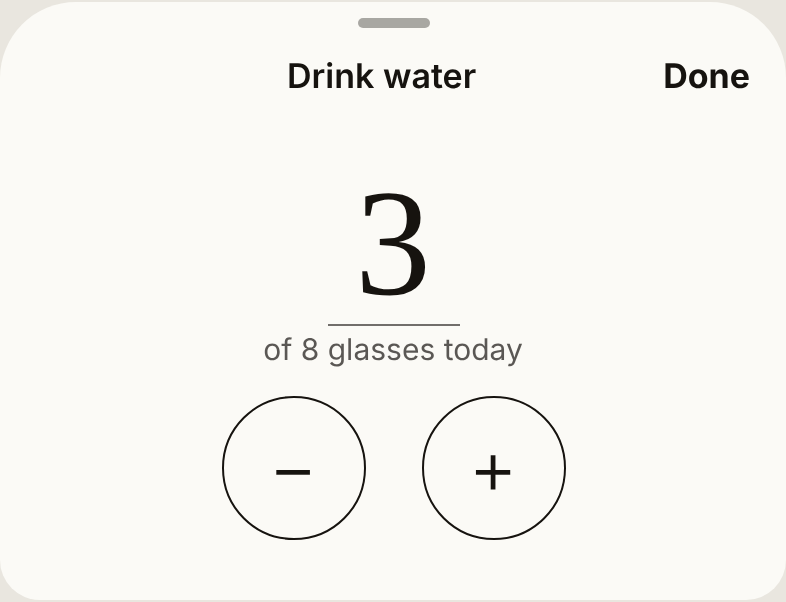
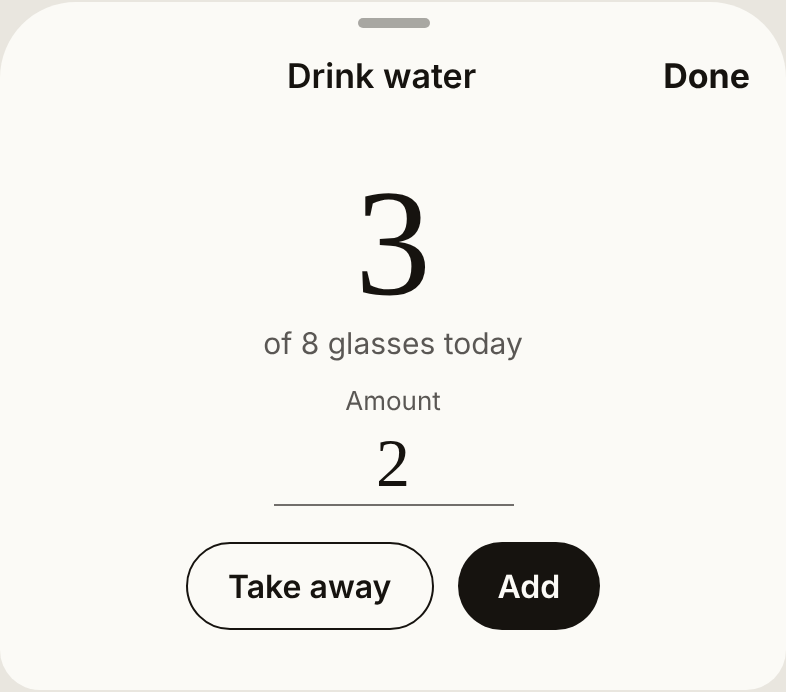
Record owner decisions: typed numbers, red as a user accent, milestone order, review cadence
- New habit and the count sheet take typed numbers. The count sheet adds or takes away a typed amount.
- The custom colour ring offers every hue. The app's own colours still never use red.
- An entitlements file is allowed for the App Group only.
- Milestones: Pen and ink first, export and import in milestone 2, Pencil and Watercolor in milestone 4.
- Three lenses per milestone, all sixteen at stops. Added UI and UX, human factors and senior designer.
- CLAUDE.md gains the accessibility and architecture rules. The spec gains the scene rules and a usage data proposal.

Claude-Session: https://claude.ai/code/session_012NdevCAvT4U8qS7nMJ64YM

diff --git a/docs/mockups.html b/docs/mockups.html
@@ -200,6 +200,11 @@ figcaption{font:400 12px/1.4 var(--ui);color:#5a554d;margin-top:8px}
 .note.hint{font-size:13px;margin-top:8px;color:var(--text3)}
 .fieldnum{border-bottom:1.5px solid var(--text3);padding:0 14px 2px}
 .wrow small{display:block;font:400 12px/1.3 var(--ui);color:var(--text2)}
+.typed{font-size:20px;min-width:64px;text-align:right;border-bottom:1.5px solid var(--text3);padding:2px 4px}
+.amt{display:grid;justify-items:center;gap:6px;margin:4px 0 18px;font:400 13px/1 var(--ui);color:var(--text2)}
+.typed.big{font-size:34px;text-align:center;min-width:120px;color:var(--text)}
+.two{display:flex;justify-content:center;gap:12px}
+.sysbtn.ghost{background:transparent;color:var(--text);border:1.5px solid var(--text)}
 </style>
 </head>
 <body>
@@ -473,15 +478,17 @@ function add(style, app){
   <div class="sec">Name</div><div class="field nm">Drink water</div>
   <div class="sec">Symbol</div><div class="symrow">${syms}</div>
   <div class="sec">Kind</div><div class="seg" style="margin-top:0"><span>Yes or no</span><span class="on">Count</span></div>
-  <div class="frow"><span>Target each day</span><span class="stepper"><b class="num">8</b><i>&minus;</i><i>+</i></span></div>
+  <div class="frow"><span>Target each day</span><b class="num typed" role="textbox">8</b></div>
   <div class="frow"><span>Unit</span><span class="val">glasses</span></div>
-  <div class="frow"><span>One tap adds</span><span class="stepper"><b class="num">1</b><i>&minus;</i><i>+</i></span></div>
+  <div class="frow"><span>One tap adds</span><b class="num typed" role="textbox">1</b></div>
   <div class="sec">Days</div><div class="dayrow">${days}</div>`;
 }
 function count(style, app){
+  // The user types an amount and adds it or takes it away. No arrows are needed to reach a number.
   return `<div class="grab"></div><div class="nav sheetnav"><span class="btn"></span><b>Drink water</b><span class="btn"><b>Done</b></span></div>
-  <div class="bigcount"><b class="num fieldnum" role="textbox" aria-label="Glasses today">3</b><span>of 8 glasses today</span></div>
-  <div class="pm"><span aria-label="Decrease by 1">&minus;</span><span aria-label="Increase by 1">+</span></div>`;
+  <div class="bigcount"><b class="num">3</b><span>of 8 glasses today</span></div>
+  <div class="amt"><span>Amount</span><b class="num typed big" role="textbox" aria-label="Amount">2</b></div>
+  <div class="two"><span class="sysbtn ghost">Take away</span>${sysbtn("Add")}</div>`;
 }
 function ax5(style, app){
   return status()+`<div class="nav"><span></span><span class="btn" aria-label="Add habit">${plus}</span></div>

diff --git a/docs/spec.md b/docs/spec.md
@@ -58,7 +58,11 @@ Any time before the day-start hour shows Night. With day start at 06:00, Sunrise
 - One of eight swatches.
 - Custom colour.
 
-**Custom colour. Guess, and a disagreement with a plain colour picker.** The system colour picker lets the user pick red, white or black. Red breaks invariant 1. White and black break the 3:1 rule for marks. The custom control is a hue ring with the red arc left out. The user picks the hue. The app sets lightness and chroma for each appearance so the mark always measures 3:1 or more.
+**Custom colour. Owner.** The custom control is a hue ring. Every hue is on it, red included. Some cultures read red as lucky, so the choice is the user's. The user picks the hue. The app sets lightness and chroma for each appearance so the mark always measures 3:1 or more. This is why the control is not the system colour picker, which also offers white and black.
+
+The app's own palettes and swatches still never use red. The red test covers what the app ships, not what the user picks.
+
+**What 3:1 means.** It is a contrast ratio between a mark and the paper behind it. WCAG 2.2 sets 3:1 as the least a shape needs when it carries information, so that people with low vision can see it. Pale yellow on white paper is about 1.2:1.
 
 The palette also has a manual override: the user can pin one of the five palettes.
 
@@ -115,13 +119,13 @@ One drawing has one meaning.
 
 **Today rows.** A row shows a second line only when it says something about today: the count for a counted habit, or "Extra credit". Habits that are off schedule today are not listed (**Guess**).
 
-**Logging. Guess.** A tap on a yes-or-no habit logs it. A second tap takes the log back. A tap on a counted habit adds the habit's tap amount, which defaults to 1. The count line under a counted habit's name ("3 of 8 glasses") is a button that opens the count sheet: minus, plus, and a number field. Touch and hold on the control opens the same sheet. VoiceOver gets adjustable actions named "Increase" and "Decrease" with the step as the value.
+**Logging. Guess.** A tap on a yes-or-no habit logs it. A second tap takes the log back. A tap on a counted habit adds the habit's tap amount, which defaults to 1. The count line under a counted habit's name ("3 of 8 glasses") is a button that opens the count sheet. In the sheet the user types an amount and chooses Add or Take away. Touch and hold on the control opens the same sheet. **Owner:** every number in the app can be typed, including the target and the tap amount in New habit. Arrows are never the only way to reach a number such as 15,000 steps or 25 minutes. VoiceOver gets adjustable actions named "Increase" and "Decrease" with the step as the value.
 
 **Past days. Guess.** In the month view of Habit detail, a tap on a past day logs or edits that day through the same intent. A yes-or-no habit toggles. A counted habit opens the count sheet for that day. One line under the grid says "Tap a past day to change it." Future days cannot be logged.
 
 **Gentle Mode.** The switch is in You. While it is on, Today shows one line that says so, with a "Turn off" button.
 
-**Proposed change to the brief, waiting for the owner.** The brief says `LogEvent.delta` is +1 or -1. A habit with a target of 6,000 steps would need thousands of events. The proposal is that `delta` is any whole number, positive or negative. Sums still commute across devices. `Habit` gains `tapAmount`, default 1. The schema is additive forever, so this is decided before milestone 1.
+**Counts. Owner.** `LogEvent.delta` is any whole number, positive or negative. `Habit` has `tapAmount`, default 1. Sums still commute across devices.
 
 **Page width. Guess.** On iPad and Mac the content is one page, 393 points wide, centred in the window. The scene card stays 350 by 118 points. Tabs become the system sidebar. A mark is never more than a page width from its habit name.
 
@@ -137,7 +141,7 @@ One drawing has one meaning.
 
 **First run.** Today shows the scene card, one line of text and one button, "Add a habit".
 
-**Shared store. To check in milestone 1.** Widgets, App Intents and the Watch app need the SwiftData store in an App Group container. The owner has a free Apple account. Milestone 1 checks that an App Group works with free signing, because milestone 5 depends on it.
+**Shared store.** Widgets, App Intents and the Watch app need the SwiftData store in an App Group container. An `.entitlements` file is allowed for the App Group only (**Owner**). The owner has a free Apple account. Before milestone 1, a throwaway project checks that an App Group works with free signing.
 
 ## Product, from the brief
 
@@ -162,7 +166,7 @@ All **Guess** unless marked. These came from the engineering and QA reviews. The
 - Every model property is optional or has a default, relationships are optional, and nothing is marked unique. CloudKit needs this later.
 - `LogEvent` has a stable id. Import skips an event whose id is already in the store.
 - A yes-or-no habit is done when the day's total is 1 or more. Taking a log back writes minus the current total. A total below 0 is shown as 0.
-- A typed count writes the difference between the typed number and the total the device sees.
+- A typed amount is written as the delta itself, positive for Add and negative for Take away. No event stores a total.
 - A log on a paused day is extra credit, whatever the count. A log on an off-schedule day is extra credit too.
 - Turning Gentle Mode off sets the end day to today, so today stays paused.
 - Pauses may start in the past. Overlapping pauses are treated as one.
@@ -208,20 +212,56 @@ All **Guess** unless marked. These came from the engineering and QA reviews. The
 - The app icon needs default, dark, clear and tinted variants.
 - A free Apple account's builds stop launching after 7 days and must be rebuilt from the Mac. Export and import are the way back if the bundle or team changes.
 
+## Milestones
+
+**Owner**, 14 November 2026.
+
+| # | Milestone | Holds |
+|---|---|---|
+| 1 | Core loop in Pen and ink | Models and data rules, Today, New habit, yes-or-no and counted logging with typed numbers, `LogHabitIntent`, the style layer as data with Pen and ink only, the Lake card in five palettes, Follow the palette and the eight swatches, light or dark, privacy manifest |
+| 2 | History, export and import | Heat map (week, month, year), logging a past day, JSON export and import with a round-trip test |
+| 3 | Pausing | `Pause` records, Vacation Mode, Gentle Mode, extra-credit run maths |
+| | Stop and report | |
+| 4 | Pencil and Watercolor | Both styles, their fonts, the style picker, the custom colour ring |
+| 5 | Sync | Skipped until the owner says |
+| 6 | Ambient | Widgets, App Intents surfaces, Watch app and complication |
+| 7 | Nudges | Scheduling engine, wording tones, settings |
+| 8 | Ordering | Focus, manual, by time, then learned |
+| 9 | NFC | Tag writing and the Shortcuts walkthrough |
+| 10 | Obsidian | Append to our own file, then the daily-note option |
+| 11 | Removal | Archive, restore, Recently Deleted, purge |
+| 12 | Polish | Accessibility audit, Dynamic Type sweep |
+
+## Usage data
+
+**Proposed, waiting for the owner.** The brief says no analytics, no telemetry and no server. Nothing here sends data anywhere.
+
+- **From the user's own log, on the device.** `LogEvent` already stores source, timestamp and delta. From those alone the app can show: which inputs are used (tap, widget, Watch, tag, Siri), how often a log is taken back within a minute, what time of day each habit is logged against its nudge hour, and how often the count sheet is needed. A page in You shows these to the user. They are also in the JSON export. No new event is recorded.
+- **From Apple, later.** After the owner joins the Developer Program and ships through the App Store or TestFlight, App Store Connect reports crashes, hangs, launch time and energy for users who opted in at the system level. It needs no code and no SDK.
+- **Not proposed.** A third-party analytics SDK or a server. Either one breaks three locked decisions and the "Data not collected" privacy label.
+
 ## Open decisions
 
 Each needs the owner. The recommendation is mine.
 
 | # | Decision | Recommendation | Blocks |
 |---|---|---|---|
-| 1 | `LogEvent.delta` may be any whole number, and `Habit` gains `tapAmount` | Yes | Milestone 1 |
-| 2 | The brief forbids an `.entitlements` file. A shared store for widgets and the Watch needs one for the App Group | Allow one that holds the App Group only. Test it with free signing before milestone 1 | Milestone 1 |
-| 3 | Milestone 1 builds three styles, two downloaded fonts and five palettes before a habit can be logged | Milestone 1 builds the style layer and Pen and ink. Pencil and Watercolor get their own milestone after milestone 3 | Milestone 1 |
-| 4 | Export and import are in milestone 10. The phone holds the only copy of the data | Move both to milestone 2 | Milestone 2 |
-| 5 | Eight lenses after every milestone and thirteen at each stop is about 120 review runs. Eight at once hit the usage limit twice | After each milestone run engineer, QA and tired daily user, plus accessibility when the UI changes and security when a permission, file or dependency is added. Run all thirteen at the three stops, three at a time | Milestone 1 report |
-| 6 | The data rules above | Accept as written | Milestone 1 |
-| 7 | Display fonts for Pencil and Watercolor | Shantell Sans and Alegreya Sans | The Pencil and Watercolor milestone |
-| 8 | The items marked Guess in this file | Accept as written | The milestone that first uses each |
+| 1 | The data rules above | Accept as written | Milestone 1 |
+| 2 | The usage data page | Build it in milestone 12 from the existing log fields | Milestone 12 |
+| 3 | Display fonts for Pencil and Watercolor | Shantell Sans and Alegreya Sans | Milestone 4 |
+| 4 | The items marked Guess in this file | Accept as written | The milestone that first uses each |
+
+Decided on 14 November 2026 and now written into this file and `CLAUDE.md`: whole-number deltas and typed numbers, the `.entitlements` file for the App Group, the milestone order, export in milestone 2, three review lenses per milestone, red allowed as a user's accent, and three more lenses (UI and UX, human factors, senior designer).
+
+## Scenes, from the brief
+
+**Rules.** The card is 350 by 118 points, short and wide, with one soft horizon. Value runs from bare paper through light and mid washes to dark pigment. A scene with one flat opacity fails. It must read in all five palettes, at half and one-third size, and in greyscale, protanopia, deuteranopia and tritanopia. The palette changes colour only, never composition. Scenes: Lake, Redwoods, Desert, Coast, Mountains. Each is shown to the owner as three variants, one scene at a time. A scene rejected twice is dropped.
+
+**What failed before, for the Redwoods.** Straight tapered trunks in a row read as a barcode. A corridor of trunks with drooping boughs was eerie. Foliage as round dabs read as camouflage. Sticks for trunks with loose needle lines over blobs read as sickly pines with needles attached to nothing. A mix of all of these was a pastiche. Wanted: tall trunks, a canopy, a pine-needle feel, calm, not muddy, not eerie.
+
+**What worked.** A lake in washes: ragged edges, a wet rim where a wash pools, granulation, glazing with multiply, bare paper kept as highlights, graded gradients, tapered ripples, paper-coloured mist between layers.
+
+**Styles.** Pencil is a coloured-pencil feel: visible hatching, varying line weight, paper tooth, playful and slightly whimsical. Watercolor is transparent washes with no outline: paint is the shape, layers are transparent, water density varies inside a wash, edges bleed and pool at the rim, bare paper is the highlight. Calm never means slower or sparser. Logging stays one obvious tap. The three styles must not look alike.
 
 ## Fonts proposed
 
@@ -241,7 +281,7 @@ Whether Optima and Chalkboard SE resolve on watchOS is not checked. It is a phas
 - The Pen and ink tokens for Ink give 16.15:1 for body and 5.04:1 for tertiary by the WCAG formula. The floor in the brief is 16.2:1 and 5.1:1. The Ink text was changed from `#F2EEE5` to `#F3EFE6` and tertiary from 52% to 53% so the floor holds. The other choice is to keep the tokens and lower the floor.
 - `gh repo create` is not available in the session that ran phase 1. The owner created the repo by hand.
 - The brief's year view (opacity steps) and its default drawing of a missed day conflicted with invariants 2 and 1. The owner resolved both. See Marks.
-- `CLAUDE.md` did not hold the brief's product section or its definition of done. The product section is now in this file and the definition of done is in `CLAUDE.md`. The brief's design, accessibility and architecture sections are still only in the brief. A phase 2 session needs the brief pasted again.
+- "The brief" is the owner's first prompt, `habit-build-prompt.md`. It is not in the repo. Its rules now live in `CLAUDE.md` and this file, with the owner's later changes applied. Where they differ from the brief, the repo is right.
 - The brief's Pen and ink Paper tokens give 6.76:1 for secondary and 4.77:1 for tertiary, under the 6.8:1 and 4.8:1 floor when compared unrounded. Secondary went from 70% to 70.5% and tertiary from 60% to 60.5%.
 
 ## Decisions log

diff --git a/CLAUDE.md b/CLAUDE.md
@@ -18,7 +18,7 @@ This file is the project brief for every session. `docs/spec.md` records decisio
 
 These outrank every other instruction. Violating one is a bug, however good the reason sounds. If an instruction would break one, stop and tell the owner.
 
-1. **No guilt mechanics.** No streak-loss alarms, no red anywhere, no "you're falling behind", no mention of a missed day unless the user opted in. Missing a day produces silence.
+1. **No guilt mechanics.** No streak-loss alarms, no red chosen by the app, no "you're falling behind", no mention of a missed day unless the user opted in. Missing a day produces silence. The user may pick red as their own accent. The owner decided this on 14 November 2026.
 2. **Colour carries no meaning.** Heat-map intensity is hatching density, never hue. The user's accent tints marks only, never text, never rules. Text contrast is a fixed constant the user cannot break.
 3. **Pausing only ever helps.** A paused day with no log never breaks a run and never extends it. A paused day with a log is extra credit and extends it. The streak function has unit tests that assert exactly this.
 4. **Every input is optional.** NFC, widgets and the Watch are shortcuts, not dependencies. Losing a tag breaks nothing.
@@ -44,7 +44,8 @@ These outrank every other instruction. Violating one is a bug, however good the 
 | Scene art | Pre-rendered raster assets. One greyscale value layer per scene, tinted at runtime by palette, within the size budget in `docs/spec.md` |
 | Structure | One shared Swift package `HabitKit` (models, day and pause maths, ordering, nudge scheduling, formatting) used by the app, watch, widget and intents targets |
 | Schema | Additive only, forever. Never rename or retype a field. New fields are optional or defaulted, and the default lives on the stored property itself. A new schema version is needed only when the set of `@Model` types changes |
-| CloudKit | The owner has not bought the Apple Developer Program. No CloudKit entitlement, container or `.entitlements` file. The Sync milestone is skipped until the owner says |
+| CloudKit | The owner has not bought the Apple Developer Program. No CloudKit entitlement or container. An `.entitlements` file is allowed for the App Group only. The owner corrected this on 14 November 2026. The Sync milestone is skipped until the owner says |
+| Counts | `LogEvent.delta` is any whole number. A habit has a tap amount, default 1. Every number the user sets can be typed. Arrows are never the only way to reach a number |
 
 ## Design rules that do not change
 
@@ -53,7 +54,7 @@ These outrank every other instruction. Violating one is a bug, however good the 
 - Mark states: solid (done), hatched (part done), centred dash (paused), diamond (extra credit), blank (off schedule, or nothing logged), dashed outline at reduced opacity (to come). Today is an outline overlaid on the day's state.
 - A past day with no log draws nothing. The empty outline for such a day, and the current run, appear only when the user turns on "Show days not logged". The owner decided this on 14 November 2026.
 - The year view carries state by small shapes, never by opacity. The owner decided this on 14 November 2026.
-- The user's accent choice comes first. Following the palette is the default option, not a rule. A custom colour is picked by hue, never red, and the app sets its lightness so marks keep 3:1.
+- The user's accent choice comes first. Following the palette is the default option, not a rule. A custom colour is picked by hue. Any hue is allowed, red included. The app sets its lightness so marks keep 3:1. The app's own tokens, swatches and palettes never use red.
 - Scene card is 350 by 118 points. No text sits on it.
 - Views read the style from the environment. A view that computes a colour or names a font is a bug. Tokens live in the style files only.
 - Accessibility is v1: Dynamic Type to AX5, VoiceOver, Increase Contrast, Reduce Transparency, 44 by 44 targets.
@@ -68,7 +69,7 @@ These outrank every other instruction. Violating one is a bug, however good the 
 
 **Phases.**
 - Phase 1 is design. It ends with a stop. No Swift is written in phase 1.
-- Phase 2 milestones, in order: 1 Core loop and styles. 2 History. 3 Pausing. Stop and report. 4 Sync (skipped until the owner says). 5 Ambient. 6 Nudges. 7 Ordering. 8 NFC. 9 Obsidian. 10 Removal. 11 Polish.
+- Phase 2 milestones, in order, as the owner changed them on 14 November 2026: 1 Core loop in Pen and ink. 2 History, export and import. 3 Pausing. Stop and report. 4 Pencil and Watercolor. 5 Sync (skipped until the owner says). 6 Ambient. 7 Nudges. 8 Ordering. 9 NFC. 10 Obsidian. 11 Removal. 12 Polish. What each holds is in `docs/spec.md`.
 - After each milestone, run the reviews on the diff as separate subagents (see Review lenses), fix what is valid, and send a report.
 - No scene is built that the owner has not approved.
 
@@ -107,7 +108,7 @@ These outrank every other instruction. Violating one is a bug, however good the 
 
 **Review lenses.** Each lens runs as a separate subagent that has not seen the working. It gets its brief, this file and the thing under review. It returns at most five findings, ranked, each with a file and line or a screen, and a concrete failure scenario. Valid findings are fixed. The rest are listed with the reason.
 
-The first eight run after every milestone. The last five were added on 14 November 2026 to cover the roles an app team has. They run at each stop: the end of phase 1, after milestone 3, and at the end. Run lenses two or three at a time, not all at once.
+After each milestone three lenses run: senior software engineer, QA engineer and tired daily user. Accessibility is added when the diff changes the UI. Security and privacy is added when the diff adds a permission, a file or a dependency. All sixteen run at each stop: the end of phase 1, after milestone 3, and at the end. Run lenses two or three at a time, not all at once. The owner set this on 14 November 2026.
 
 | Lens | Team role | Brief |
 |---|---|---|
@@ -123,9 +124,28 @@ The first eight run after every milestone. The last five were added on 14 Novemb
 | First-day user | User research, onboarding | Someone who has never seen the app. Empty states, the first habit, whether each mark can be understood without a key, whether every gesture has a visible alternative, where they would get stuck |
 | Content designer | UX writer, localisation | Every string: plain, short, free of guilt and grading. Plurals, dates and numbers by locale, week start, text 40% longer in translation, right-to-left layout, VoiceOver wording |
 | QA engineer | Test engineer | Day start, midnight, daylight saving, time-zone travel, counted habits and undo, logging a past day, pause edges, export and import, the smallest and largest devices, what the tests do not cover |
+| UI and UX designer | Interaction designer | Task flows from start to finish, every state of every screen (empty, partial, full, error), navigation, feedback after each action, recovery from a mistake, consistency of controls across screens |
+| Human factors | Human interface and human factors | Glance time, reach and thumb zones, target size and spacing, slips and mistaken taps, memory load, mode errors, how many decisions a task takes, use while tired, walking or one-handed |
+| Senior designer | Design lead | Whether the product holds together as one thing: hierarchy, rhythm, restraint, what to remove, whether the three styles are distinct and each complete, whether every screen earns its place |
 | Release engineer | Build and release | What works with a free Apple account, App Groups and the shared store, signing, privacy manifest and required-reason APIs, when the notification prompt appears, widget tint modes, app icon variants, App Review rules |
 
 Roles a typical app team has that this project leaves out, with the reason: backend and DevOps (there is no server), data analyst (there is no analytics), growth and marketing (the app is free and has no accounts), monetisation (there is no paywall).
+
+**Accessibility.** This is v1, not polish.
+- Dynamic Type to AX5 on every screen. Layouts reflow, nothing clips.
+- Custom fonts scale with the text style. A fixed-size custom font is a bug. Bold Text uses a heavier weight.
+- VoiceOver on the heat map groups by week with a summary and an `AXChartDescriptor`. Never 365 focusable cells.
+- Increase Contrast maps to heavier ink. In Watercolor it also turns washes and grain off. Reduce Transparency removes grain.
+- 44 by 44 minimum targets. Full Keyboard Access and complete menu-bar commands on Mac.
+- Differentiate Without Colour needs no special handling and must stay that way.
+- A mark measures at least 3:1 against the paper behind it, as drawn. 3:1 is the WCAG 2.2 minimum for a shape that carries information.
+- The scene card is decorative. It has one accessibility label that names scene and palette. It must not crowd the first habit row at AX5.
+
+**Architecture.**
+- Styles are data. Adding a style changes nothing outside the style files and the picker.
+- `HabitApp`'s `ModelContainer` is always built through a migration plan, never a bare `Schema`.
+- Font names that do not resolve fail silently. A test checks that each font resolves on each platform.
+- Paper grain is rendered once per size and reused. No live blur or shader effects redrawn while scrolling.
 
 **Security and privacy.**
 - No network calls, permissions, entitlements or dependencies beyond what a feature needs and the owner approved.
